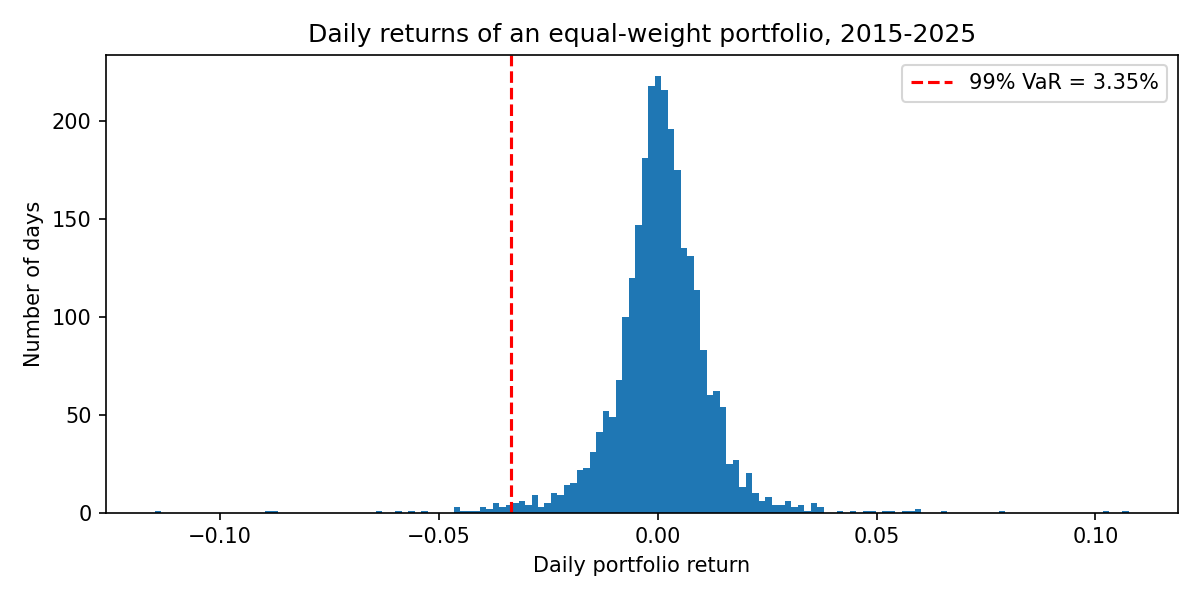
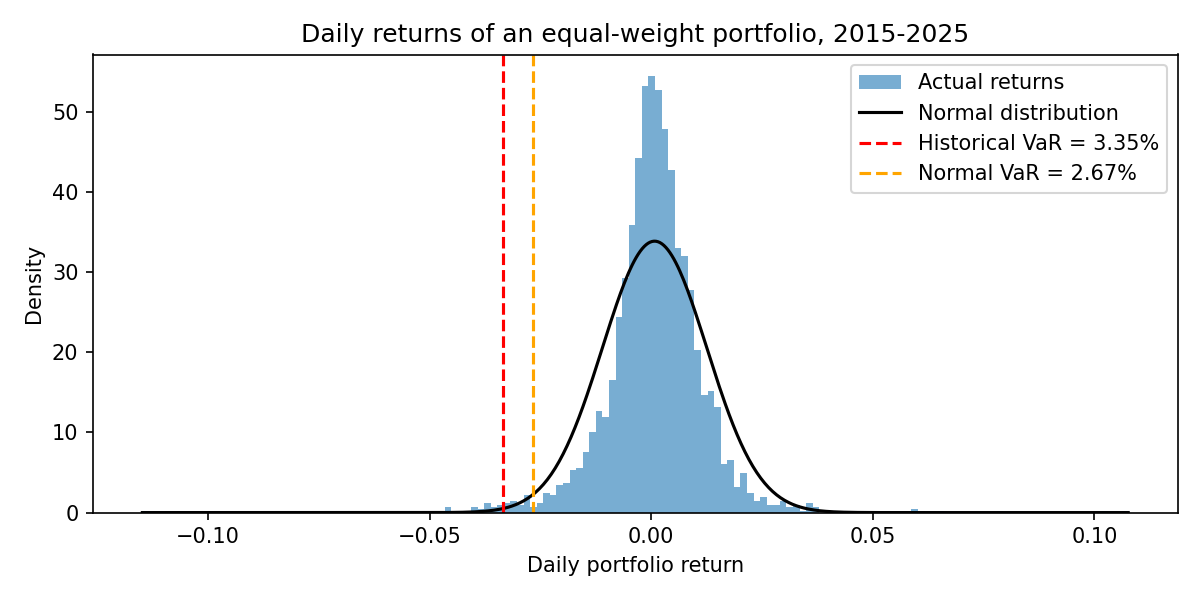
Add parametric VaR and compare with historical

Changed region(s): [[0.1233, 0.03, 0.9867, 0.96], [0.0, 0.09, 0.0925, 0.87]]

diff --git a/scripts/02_risk.py b/scripts/02_risk.py
@@ -1,14 +1,18 @@
+
+from pathlib import Path
+
+import matplotlib.pyplot as plt
 import numpy as np
 import yfinance as yf
-from pathlib import Path
-import matplotlib.pyplot as plt
+from scipy.stats import norm  # NEW
 
 FIG = Path(__file__).resolve().parents[1] / "figures"
 
 TICKERS = ["AAPL", "MSFT", "JPM", "XOM", "JNJ"]
 WEIGHTS = np.array([0.2, 0.2, 0.2, 0.2, 0.2])
-ALPHA = 0.99
-PORTFOLIO_VALUE = 1_000_000
+ALPHA = 0.99                 
+PORTFOLIO_VALUE = 1_000_000  
+
 
 prices = yf.download(TICKERS, start="2015-01-01", end="2025-12-31",
                      auto_adjust=True, threads=False)["Close"]
@@ -23,14 +27,16 @@ print(prices.tail())
 
 returns = prices.pct_change(fill_method=None).dropna()
 
+
 portfolio = returns @ WEIGHTS
 print("Number of days:", len(portfolio))
 print(f"Worst day: {portfolio.min():.2%} on {portfolio.idxmin().date()}")
 print(f"Best day:  {portfolio.max():.2%} on {portfolio.idxmax().date()}")
 
-cutoff = portfolio.quantile(1 - ALPHA)             
-var_hist = -cutoff                                   
-es_hist = -portfolio[portfolio <= cutoff].mean()     
+
+cutoff = portfolio.quantile(1 - ALPHA)
+var_hist = -cutoff                               
+es_hist = -portfolio[portfolio <= cutoff].mean()   
 n_tail = (portfolio <= cutoff).sum()
 
 print(f"\nHistorical 1-day {ALPHA:.0%} VaR: {var_hist:.2%}  "
@@ -40,10 +46,31 @@ print(f"Historical 1-day {ALPHA:.0%} ES:  {es_hist:.2%}  "
 print(f"Days in the tail: {n_tail}")
 
 
+mu = portfolio.mean()
+sd = portfolio.std()
+z = norm.ppf(1 - ALPHA)                              
+var_norm = -(mu + z * sd)
+es_norm = -(mu - sd * norm.pdf(z) / (1 - ALPHA))
+
+print(f"\nParametric 1-day {ALPHA:.0%} VaR: {var_norm:.2%}  "
+      f"= ${var_norm * PORTFOLIO_VALUE:,.0f}")
+print(f"Parametric 1-day {ALPHA:.0%} ES:  {es_norm:.2%}  "
+      f"= ${es_norm * PORTFOLIO_VALUE:,.0f}")
+
+
+breaches = (portfolio < -var_norm).sum()
+expected = (1 - ALPHA) * len(portfolio)
+print(f"Days worse than normal VaR: {breaches} (expected: {expected:.0f})")
+print(f"Excess kurtosis: {portfolio.kurt():.1f} (normal distribution: 0)")
+
+
 fig, ax = plt.subplots(figsize=(8, 4))
-ax.hist(portfolio, bins=150)
-ax.axvline(cutoff, color="red", ls="--", label=f"99% VaR = {var_hist:.2%}")
-ax.set(xlabel="Daily portfolio return", ylabel="Number of days",
+ax.hist(portfolio, bins=150, density=True, alpha=0.6, label="Actual returns")
+x = np.linspace(portfolio.min(), portfolio.max(), 500)
+ax.plot(x, norm.pdf(x, mu, sd), color="black", label="Normal distribution")
+ax.axvline(-var_hist, color="red", ls="--", label=f"Historical VaR = {var_hist:.2%}")
+ax.axvline(-var_norm, color="orange", ls="--", label=f"Normal VaR = {var_norm:.2%}")
+ax.set(xlabel="Daily portfolio return", ylabel="Density",
        title="Daily returns of an equal-weight portfolio, 2015-2025")
 ax.legend()
 fig.tight_layout()
